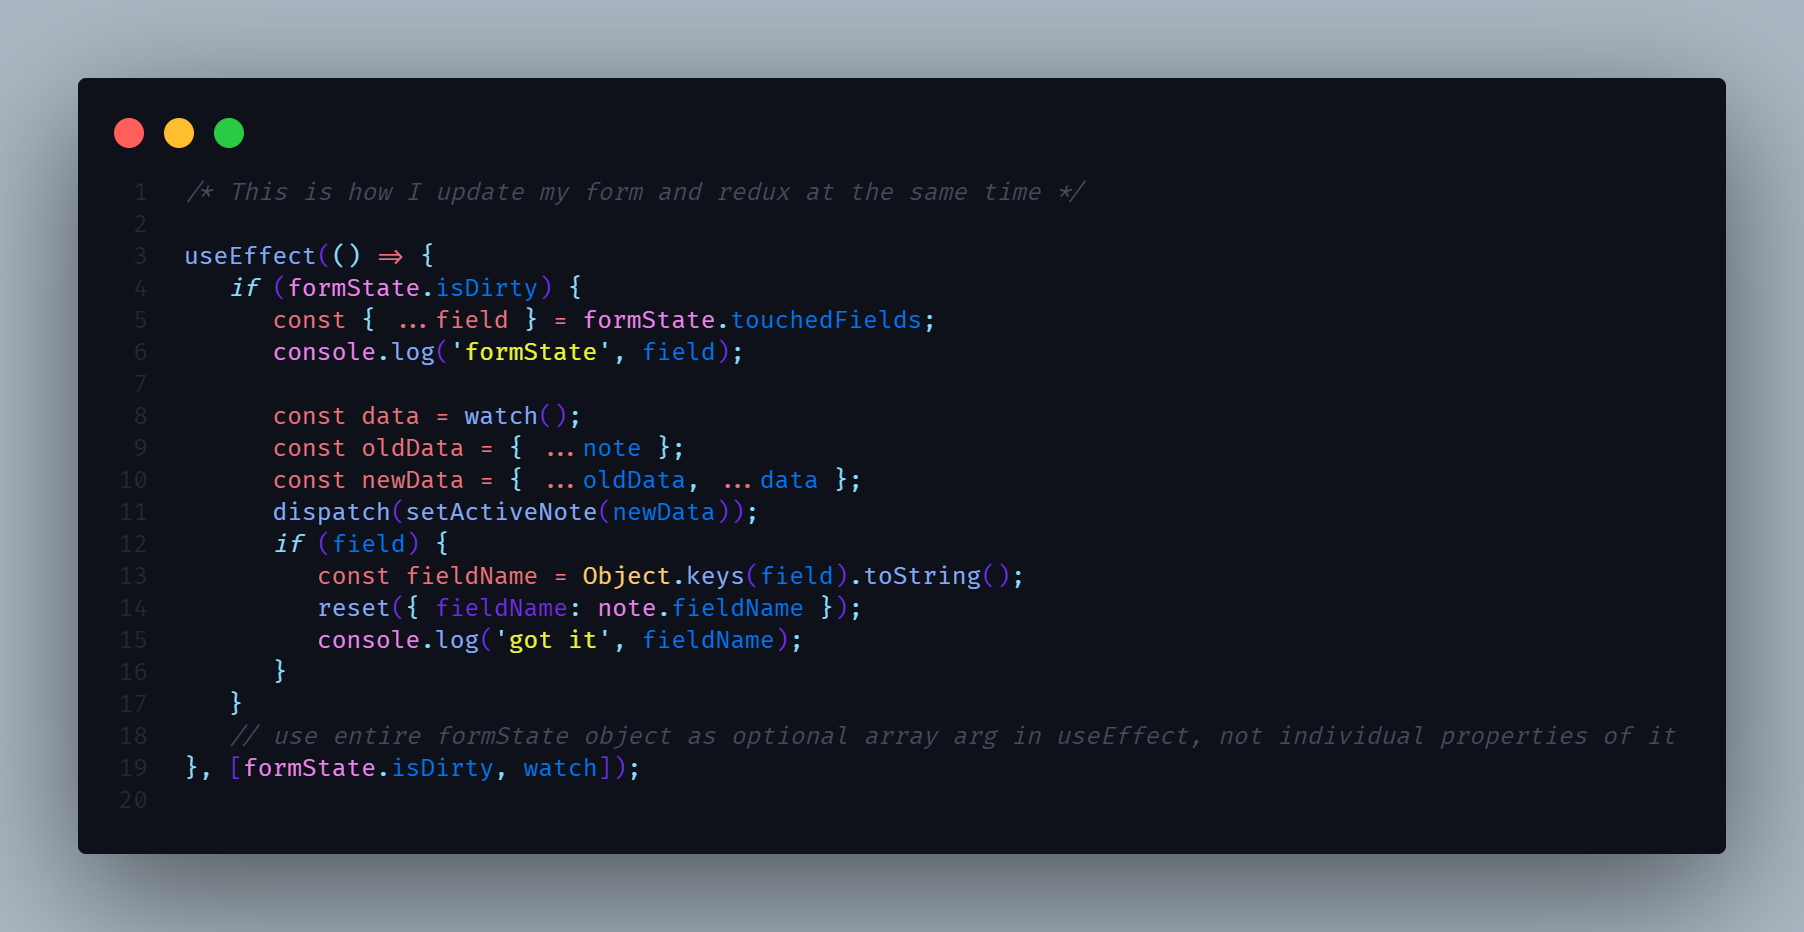
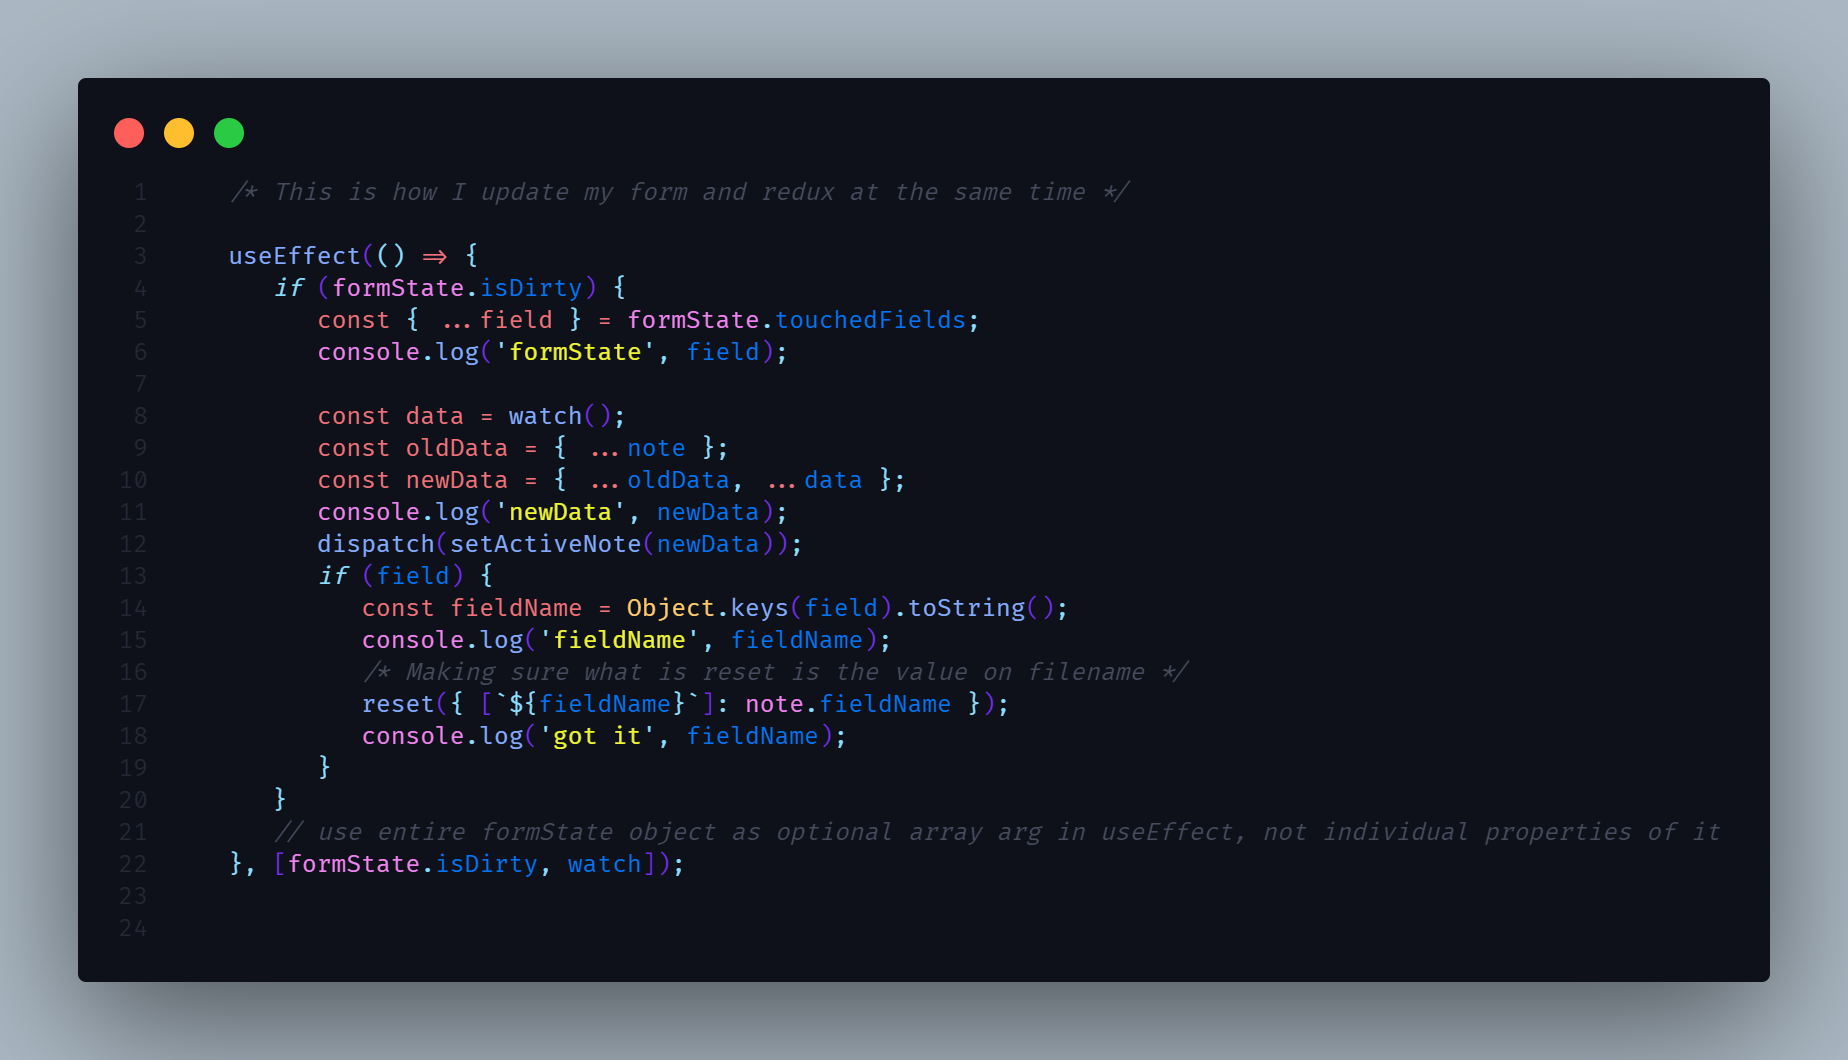
add sweet alert

diff --git a/src/journal/views/NoteView.jsx b/src/journal/views/NoteView.jsx
@@ -4,16 +4,20 @@ import Grid from '@mui/material/Unstable_Grid2/Grid2';
 import { useEffect, useMemo } from 'react';
 import { useForm } from 'react-hook-form';
 import { useDispatch, useSelector } from 'react-redux';
+import Swal from 'sweetalert2';
+import 'sweetalert2/dist/sweetalert2.css';
+
 import { FormInputText } from '../../auth/components/FormInputText';
 import { setActiveNote } from '../../store/journal/JournalSlice';
+import { startSaveNote } from '../../store/journal/thunks';
 import { ImageGallery } from '../components';
 
 export const NoteView = () => {
    const dispatch = useDispatch();
 
-   const { active: note } = useSelector((state) => state.journal);
+   const { active: note, messageSaved, isSaving } = useSelector((state) => state.journal);
 
-   const { register, formState, reset, watch } = useForm({
+   const { register, formState, reset, watch, setValue } = useForm({
       defaultValues: { title: note.title, body: note.body },
    });
 
@@ -21,6 +25,21 @@ export const NoteView = () => {
       const newDate = new Date(note.date);
       return newDate.toUTCString();
    }, [note.date]);
+
+   useEffect(() => {
+      setValue('title', note.title);
+      setValue('body', note.body);
+   }, [note]);
+
+   useEffect(() => {
+      if (messageSaved.length > 0) {
+         Swal.fire({
+            title: 'Note updated!',
+            text: messageSaved,
+            icon: 'success',
+         });
+      }
+   }, [messageSaved]);
 
    /* This is how I update my form and redux at the same time */
 
@@ -32,15 +51,22 @@ export const NoteView = () => {
          const data = watch();
          const oldData = { ...note };
          const newData = { ...oldData, ...data };
+         console.log('newData', newData);
          dispatch(setActiveNote(newData));
          if (field) {
             const fieldName = Object.keys(field).toString();
-            reset({ fieldName: note.fieldName });
+            console.log('fieldName', fieldName);
+            /* Making sure what is reset is the value on filename */
+            reset({ [`${fieldName}`]: note.fieldName });
             console.log('got it', fieldName);
          }
       }
       // use entire formState object as optional array arg in useEffect, not individual properties of it
    }, [formState.isDirty, watch]);
+
+   const onSaveNote = () => {
+      dispatch(startSaveNote());
+   };
 
    return (
       <Grid
@@ -56,7 +82,11 @@ export const NoteView = () => {
             </Typography>
          </Grid>
          <Grid>
-            <Button color='primary' sx={{ p: 2 }}>
+            <Button
+               disabled={isSaving}
+               color='primary'
+               sx={{ p: 2 }}
+               onClick={onSaveNote}>
                <SaveOutlined sx={{ fontSeize: 30, mr: 1 }} />
             </Button>
          </Grid>

diff --git a/src/store/journal/thunks.js b/src/store/journal/thunks.js
@@ -1,7 +1,14 @@
 import { collection, doc, setDoc } from 'firebase/firestore/lite';
 import { FirebaseDB } from '../../firebase/config';
 import { loadNote } from '../../helper';
-import { addNewEmptyNote, savingNewNote, setActiveNote, setNotes } from './JournalSlice';
+import {
+   addNewEmptyNote,
+   savingNewNote,
+   setActiveNote,
+   setNotes,
+   setSaving,
+   updatedNote,
+} from './JournalSlice';
 
 export const startNewNote = () => {
    return async (dispatch, getState) => {
@@ -9,7 +16,6 @@ export const startNewNote = () => {
 
       const { uid } = getState().auth;
 
-      console.log(uid);
       // uid
       try {
          const newNote = {
@@ -39,8 +45,26 @@ export const startLoadingNotes = () => {
    return async (dispatch, getState) => {
       const { uid } = getState().auth;
       if (!uid) throw new Error('User not auth');
-      console.log(uid);
       const notes = await loadNote(uid);
       dispatch(setNotes(notes));
+   };
+};
+
+export const startSaveNote = () => {
+   return async (dispatch, getState) => {
+      dispatch(setSaving());
+
+      const { uid } = getState().auth;
+      const { active: note } = getState().journal;
+
+      const noteToFirestore = { ...note };
+      delete noteToFirestore.id;
+      /* This function is grabbing the collection first and then going to the params i need */
+      const newDoc = doc(
+         collection(FirebaseDB, 'users-journal', `${uid}`, 'notes'),
+         `${note.id}`,
+      );
+      const setDocResp = await setDoc(newDoc, noteToFirestore, { merge: true });
+      dispatch(updatedNote(note));
    };
 };

diff --git a/src/store/journal/JournalSlice.js b/src/store/journal/JournalSlice.js
@@ -28,9 +28,26 @@ export const JournalSlice = createSlice({
       },
       setNotes: (state, action) => {
          state.notes = action.payload;
+         state.messageSaved = '';
       },
-      setSaving: (state) => {},
-      updateNote: (state, action) => {},
+      setSaving: (state) => {
+         state.isSaving = true;
+         state.messageSaved = '';
+      },
+      updatedNote: (state, action) => {
+         //payload:note
+         state.isSaving = false;
+         state.notes = state.notes.map((note) => {
+            if (note.id === action.payload.id) {
+               return action.payload;
+            }
+            // If ID are not the same return the same note
+            return note;
+         });
+
+         // state.messageSaved = `${action.payload.title}, updated`;
+         state.messageSaved = `Your change has been updated!`;
+      },
       deleteNoteById: (state, action) => {},
    },
 });
@@ -41,6 +58,6 @@ export const {
    setActiveNote,
    setNotes,
    setSaving,
-   updateNote,
+   updatedNote,
    deleteNoteById,
 } = JournalSlice.actions;
